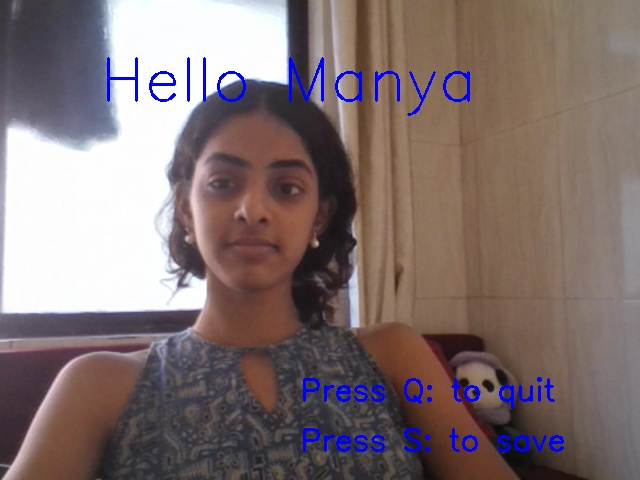
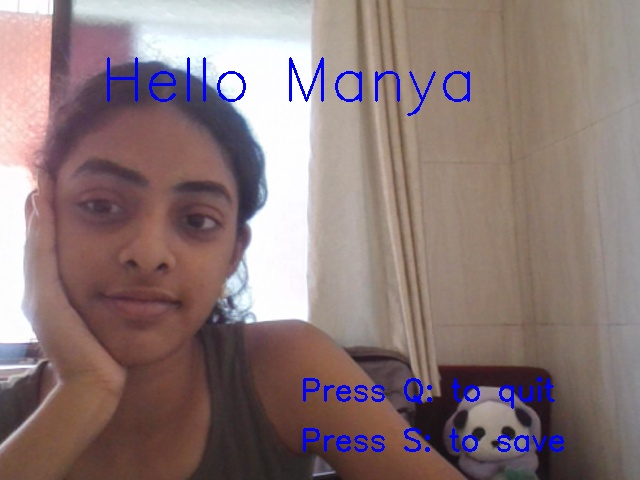
Stage 4completed

diff --git a/camera_test.py b/camera_test.py
@@ -4,8 +4,9 @@ import time
 i=1
 camera = cv2.VideoCapture(0)
 
-countdown = False
+state = "idle"
 countdown_start = 0
+pause_start = 0
 
 # def countdown(n):
 #    for i in range(0,n):
@@ -24,9 +25,9 @@ while True:
     cv2.putText( frame, "Hello Manya", (100, 100), cv2.FONT_HERSHEY_SIMPLEX, 2, (255, 0, 0), 2)
     cv2.putText( frame, "Press Q: to quit", (300, 400), cv2.FONT_HERSHEY_SIMPLEX, 1, (255, 0, 0), 2)
     cv2.putText( frame, "Press S: to save", (300, 450), cv2.FONT_HERSHEY_SIMPLEX, 1, (255, 0, 0), 2)
-
-# Countdown logic
-    if countdown:
+    
+    # Countdown logic
+    if state == "countdown":
         elapsed = time.time()-countdown_start
         
         if elapsed < 1:
@@ -35,22 +36,39 @@ while True:
             number = "2"
         elif elapsed <3:
             number = "1"
+        elif elapsed <4:
+            number = "Smile"
         else:
-            cv2.imwrite("photo"+str(i)+".jpg", frame)
+            # cv2.imwrite("photo"+str(i)+".jpg", frame)
+            filename = "photo" + str(i) + ".jpg"
+            cv2.imwrite(filename, frame)
+            print(filename, "saved")
+
             i=i+1
-            countdown = False
-            number = ""
-        
-        if countdown:
-            cv2.putText(frame, number, (300, 250),
-                        cv2.FONT_HERSHEY_SIMPLEX, 5, (0, 0, 255), 8)
             
-    cv2.imshow("Photobooth",frame)
-    
+            if i == 5:
+                break
+
+            state = "pause"
+            pause_start = time.time()
+            number = ""
+            
+        if state == "countdown":
+            cv2.putText(frame, number, (270, 250), cv2.FONT_HERSHEY_SIMPLEX, 3, (0, 0, 255), 8)
+
+    elif state == "pause":
+        cv2.putText(frame, "Next Pose!", (180, 250), cv2.FONT_HERSHEY_SIMPLEX, 2, (0, 255, 0), 4)
+        elapsed = time.time()-pause_start
+        if elapsed >= 2:
+            state = "countdown"
+            countdown_start = time.time()
+
+    cv2.imshow("Photobooth",frame)            
     k = cv2.waitKey(1)
-    
-    if k == ord('s') and not countdown:
-        countdown = True
+
+    if k == ord('s') and state == "idle":
+        state = "countdown"
+        # countdown = True
         countdown_start = time.time()
 
     # if k == ord('s'):
